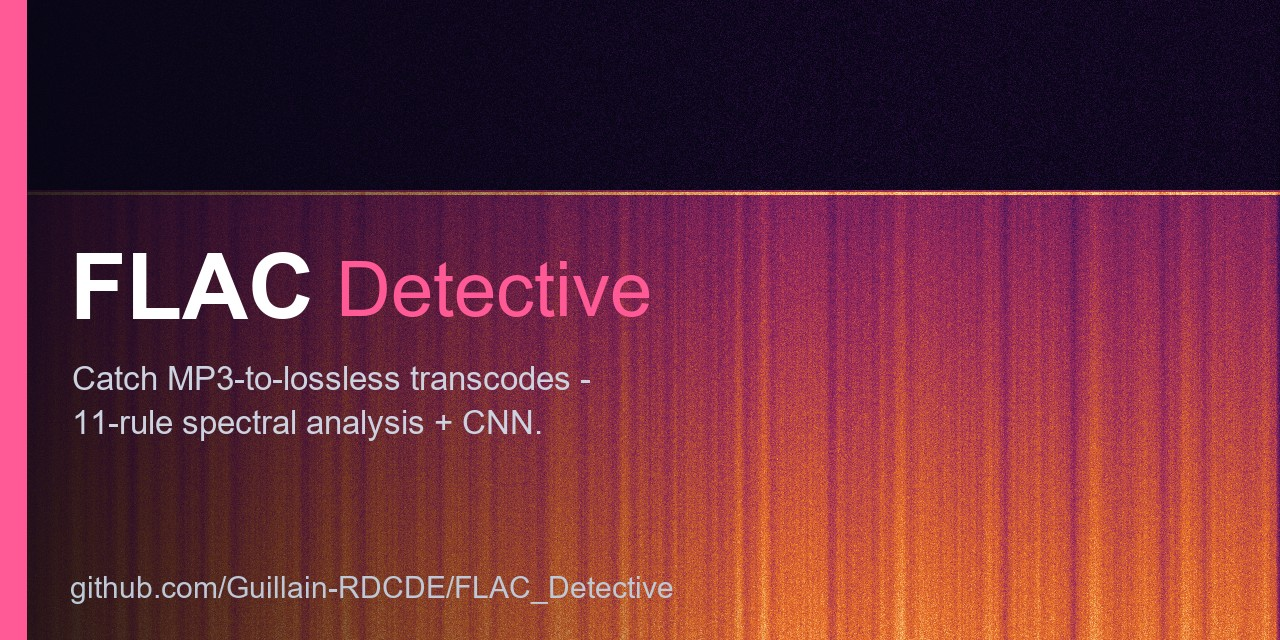
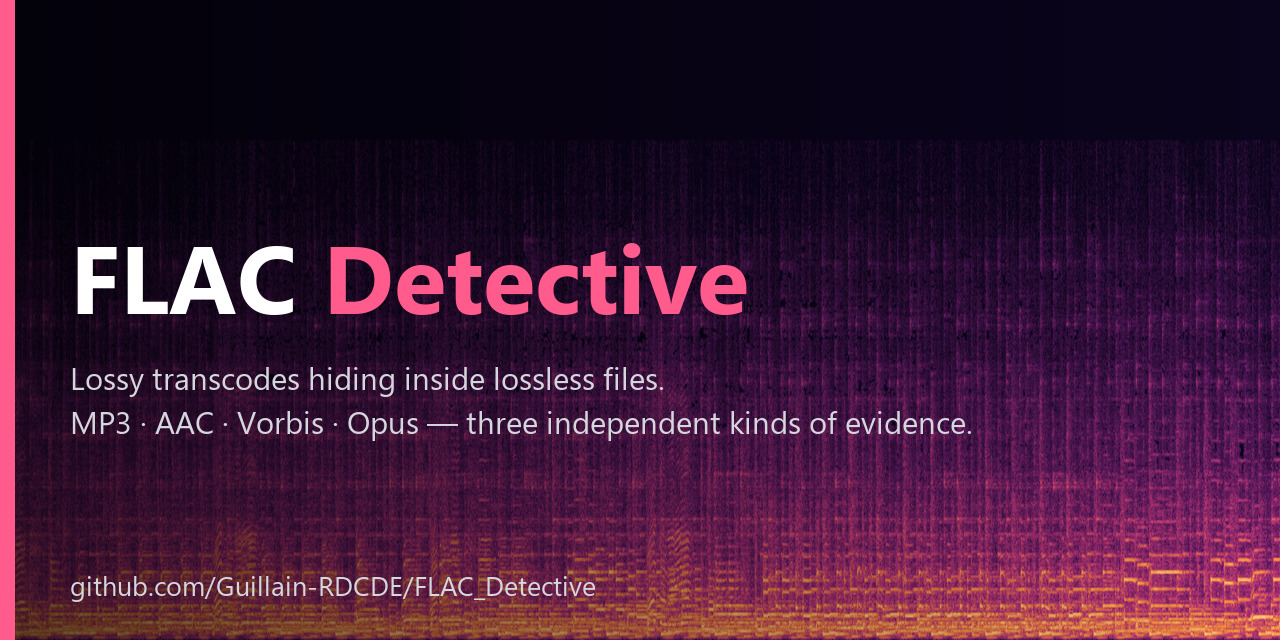
docs: regenerate the social preview, and make it a script so it cannot drift again
The preview was made by hand in June and read "Catch MP3-to-lossless transcodes —
11-rule spectral analysis + CNN". By August all three claims were wrong: Rule 3 was
deleted, Rule 13 is not spectral, and the blind exchange put both ffmpeg-AAC arms
above 128 kbps at 100 % flagged with Vorbis at AUC 0.955. Nobody noticed because an
image is not something anyone greps. Jamie Dodd noticed.

So it is generated now, from constants sitting beside the claims they have to
match, and regenerating is one command.

The background is a real spectrogram of a real AAC transcode from the audit
corpus — an AAC source deliberately, since "we only catch MP3" is precisely the
claim being retired. The hard horizontal edge near the top is the artefact itself:
the frequencies the encoder discarded and the container is pretending to still
hold.

One thing had to be fixed after the first render. Grading the darkening top-down
washed out that edge, leaving a pretty texture that could have been any audio at
all — the image would have said nothing. It grades from the left now, where the
type sits, and the cliff survives.

NOTE: the file is updated in the repository, but GitHub's social preview is set in
Settings and cannot be changed from the CLI. Upload docs/social-preview.jpg there
for the new image to appear on link cards.

diff --git a/ml/make_social_preview.py b/ml/make_social_preview.py
@@ -1,0 +1,180 @@
+#!/usr/bin/env python3
+"""Regenerate the GitHub social preview from a real spectrogram.
+
+Why this is a script and not a hand-made file
+---------------------------------------------
+The previous social preview was made by hand in June and said "Catch
+MP3-to-lossless transcodes — 11-rule spectral analysis + CNN". By August all three
+claims were wrong: Rule 3 had been deleted, Rule 13 is not spectral, and the blind
+exchange with Provir put both ffmpeg-AAC arms above 128 kbps at 100 % flagged with
+Vorbis at AUC 0.955. Nobody noticed, because an image is not something anyone
+greps. Jamie Dodd pointed at it.
+
+So the image is generated from constants that sit next to the claims, and
+regenerating it is one command.
+
+The background is a real spectrogram of a real AAC transcode from the audit corpus
+— not a stock texture. The dark band across the top is the artefact itself: the
+frequencies the encoder threw away and the container is pretending to still have.
+An AAC source on purpose, since "we only catch MP3" is the claim being retired.
+
+Usage::
+
+    python ml/make_social_preview.py --out docs/social-preview.jpg
+"""
+
+from __future__ import annotations
+
+import argparse
+from pathlib import Path
+from typing import List, Optional
+
+import numpy as np
+import soundfile as sf
+from PIL import Image, ImageDraw, ImageFont
+
+# GitHub renders social previews at 1280x640.
+SIZE = (1280, 640)
+
+TITLE_PLAIN = "FLAC "
+TITLE_ACCENT = "Detective"
+
+# The claim, kept beside the code that has to stay true to it.
+SUBTITLE = [
+    "Lossy transcodes hiding inside lossless files.",
+    "MP3 · AAC · Vorbis · Opus — three independent kinds of evidence.",
+]
+FOOTER = "github.com/Guillain-RDCDE/FLAC_Detective"
+
+ACCENT = (255, 92, 141)
+WHITE = (255, 255, 255)
+SUBTLE = (214, 214, 222)
+
+FFT_SIZE = 1024
+
+_FONT_CANDIDATES = (
+    "C:/Windows/Fonts/segoeuib.ttf",
+    "C:/Windows/Fonts/arialbd.ttf",
+    "/System/Library/Fonts/Supplemental/Arial Bold.ttf",
+    "/usr/share/fonts/truetype/dejavu/DejaVuSans-Bold.ttf",
+)
+_FONT_REGULAR = (
+    "C:/Windows/Fonts/segoeui.ttf",
+    "C:/Windows/Fonts/arial.ttf",
+    "/System/Library/Fonts/Supplemental/Arial.ttf",
+    "/usr/share/fonts/truetype/dejavu/DejaVuSans.ttf",
+)
+
+
+def _font(size: int, bold: bool = False) -> ImageFont.FreeTypeFont:
+    """First available system font at ``size``, or PIL's default."""
+    for candidate in (_FONT_CANDIDATES if bold else _FONT_REGULAR):
+        if Path(candidate).exists():
+            return ImageFont.truetype(candidate, size)
+    return ImageFont.load_default()
+
+
+def spectrogram(path: Path, seconds: float = 20.0) -> np.ndarray:
+    """Log-magnitude spectrogram, normalised to 0..1, low frequencies at the bottom."""
+    info = sf.info(str(path))
+    data, rate = sf.read(str(path), dtype="float32", frames=int(seconds * info.samplerate))
+    mono = data if data.ndim == 1 else np.mean(data, axis=1)
+    window = np.hanning(FFT_SIZE).astype(np.float32)
+    hop = FFT_SIZE // 4
+
+    columns = []
+    for start in range(0, len(mono) - FFT_SIZE, hop):
+        block = mono[start : start + FFT_SIZE] * window
+        columns.append(np.abs(np.fft.rfft(block)))
+    spec = np.asarray(columns).T
+    with np.errstate(divide="ignore"):
+        db = 20 * np.log10(np.maximum(spec, 1e-10))
+    db = np.clip(db, db.max() - 90.0, db.max())
+    db -= db.min()
+    return np.flipud(db / (db.max() + 1e-9))
+
+
+def colourise(norm: np.ndarray) -> Image.Image:
+    """Map 0..1 to the deep-violet / magenta / amber ramp of the original preview.
+
+    Hand-built rather than pulled from matplotlib: this is the only thing the whole
+    repository would need matplotlib for, and a four-stop ramp is not worth the
+    dependency.
+    """
+    stops = [
+        (0.00, (10, 4, 28)),
+        (0.35, (86, 24, 92)),
+        (0.62, (186, 54, 118)),
+        (0.82, (240, 130, 62)),
+        (1.00, (255, 214, 140)),
+    ]
+    positions = np.array([s[0] for s in stops])
+    colours = np.array([s[1] for s in stops], dtype=np.float64)
+    flat = norm.ravel()
+    out = np.empty((flat.size, 3))
+    for channel in range(3):
+        out[:, channel] = np.interp(flat, positions, colours[:, channel])
+    return Image.fromarray(out.reshape(*norm.shape, 3).astype(np.uint8))
+
+
+def build(source: Path, out: Path) -> int:
+    """Render the preview and write it."""
+    norm = spectrogram(source)
+    image = colourise(norm).resize(SIZE, Image.LANCZOS)
+
+    # Darken from the LEFT, where the type sits, rather than from the top.
+    #
+    # The first version graded top-down and washed out the one feature that makes
+    # this image mean anything: the horizontal cliff where the encoder stopped
+    # storing frequencies. That edge is the artefact. Losing it to a gradient
+    # leaves a pretty texture that could be any audio at all.
+    overlay = Image.new("RGB", SIZE, (0, 0, 0))
+    mask = Image.linear_gradient("L").rotate(-90).resize(SIZE)
+    image = Image.composite(Image.blend(image, overlay, 0.62), image, mask)
+
+    draw = ImageDraw.Draw(image)
+    draw.rectangle([0, 0, 14, SIZE[1]], fill=ACCENT)
+
+    title_font = _font(96, bold=True)
+    x, y = 70, 210
+    draw.text((x, y), TITLE_PLAIN, font=title_font, fill=WHITE)
+    x += int(draw.textlength(TITLE_PLAIN, font=title_font))
+    draw.text((x, y), TITLE_ACCENT, font=title_font, fill=ACCENT)
+
+    body = _font(31)
+    for index, line in enumerate(SUBTITLE):
+        draw.text((70, 356 + index * 44), line, font=body, fill=SUBTLE)
+
+    draw.text((70, 566), FOOTER, font=_font(27), fill=SUBTLE)
+
+    out.parent.mkdir(parents=True, exist_ok=True)
+    image.save(out, quality=92, subsampling=0)
+    print(f"{out}  {image.size[0]}x{image.size[1]}  {out.stat().st_size // 1024} KB")
+    return 0
+
+
+def main(argv: Optional[List[str]] = None) -> int:
+    """Pick a source with a visible artefact and render."""
+    parser = argparse.ArgumentParser(description=__doc__)
+    parser.add_argument(
+        "--source",
+        type=Path,
+        default=Path(r"C:/Users/loutr/audit_corpus/fake/aac_ff128"),
+        help="a transcoded file, or a directory to take the first file from",
+    )
+    parser.add_argument("--out", type=Path, default=Path("docs/social-preview.jpg"))
+    args = parser.parse_args(argv)
+
+    source = args.source
+    if source.is_dir():
+        candidates = sorted(source.glob("*.flac"))
+        if not candidates:
+            raise SystemExit(f"no .flac under {source}")
+        source = candidates[0]
+    if not source.exists():
+        raise SystemExit(f"{source} not found")
+    return build(source, args.out)
+
+
+if __name__ == "__main__":
+    raise SystemExit(main())

diff --git a/README.md b/README.md
@@ -1,5 +1,5 @@
 <p align="center">
-  <img src="docs/social-preview.jpg" width="100%" alt="FLAC Detective — catch lossy files masquerading as FLAC">
+  <img src="docs/social-preview.jpg" width="100%" alt="FLAC Detective — lossy transcodes hiding inside lossless files: MP3, AAC, Vorbis, Opus">
 </p>
 
 # 🎵 FLAC Detective
